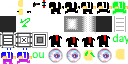
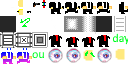
Move GREENHORNS HUD display directly under MALEFACTORS

Changed region(s): [[0.875, 0.0, 1.0, 0.25]]

diff --git a/app.js b/app.js
@@ -780,13 +780,14 @@ engineInit(
         mainContext.fillText('LEVEL ' + level, hudX, hudY);
         mainContext.fillText('LIVES ' + playerLives, hudX, hudY + lineHeight);
         mainContext.fillText('MALEFACTORS ' + enemiesCount, hudX, hudY + lineHeight * 2);
-        mainContext.fillText('LOGINS ' + securedCheckpoints + '/' + totalCheckpoints, hudX, hudY + lineHeight * 3);
-        mainContext.fillText('CALCULATORS ' + destroyedComputers + '/' + totalComputers, hudX, hudY + lineHeight * 4);
-        mainContext.fillText('PUSSYBOMB ' + destroyedPussybombs + '/1', hudX, hudY + lineHeight * 5);
         
         // Clean up and count living girls
         cleanupSurvivingGirls();
-        mainContext.fillText('GREENHORNS ' + survivingGirls.length, hudX, hudY + lineHeight * 6);
+        mainContext.fillText('GREENHORNS ' + survivingGirls.length, hudX, hudY + lineHeight * 3);
+        
+        mainContext.fillText('LOGINS ' + securedCheckpoints + '/' + totalCheckpoints, hudX, hudY + lineHeight * 4);
+        mainContext.fillText('CALCULATORS ' + destroyedComputers + '/' + totalComputers, hudX, hudY + lineHeight * 5);
+        mainContext.fillText('PUSSYBOMB ' + destroyedPussybombs + '/1', hudX, hudY + lineHeight * 6);
 
         // fade in level transition
         const fade = levelEndTimer.isSet() ? percent(levelEndTimer.get(), 3, 1) : percent(levelTimer.get(), .5, 2);
